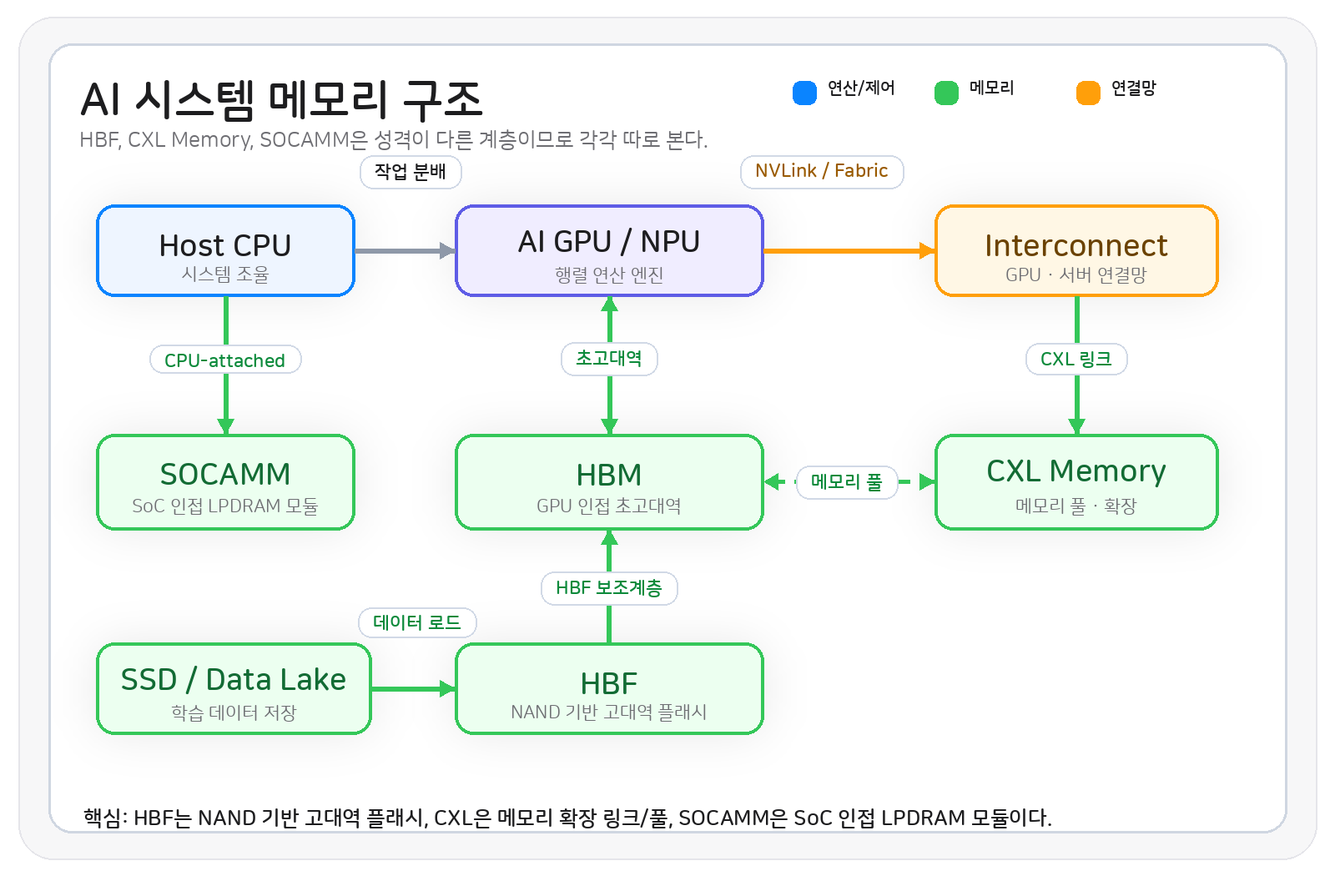
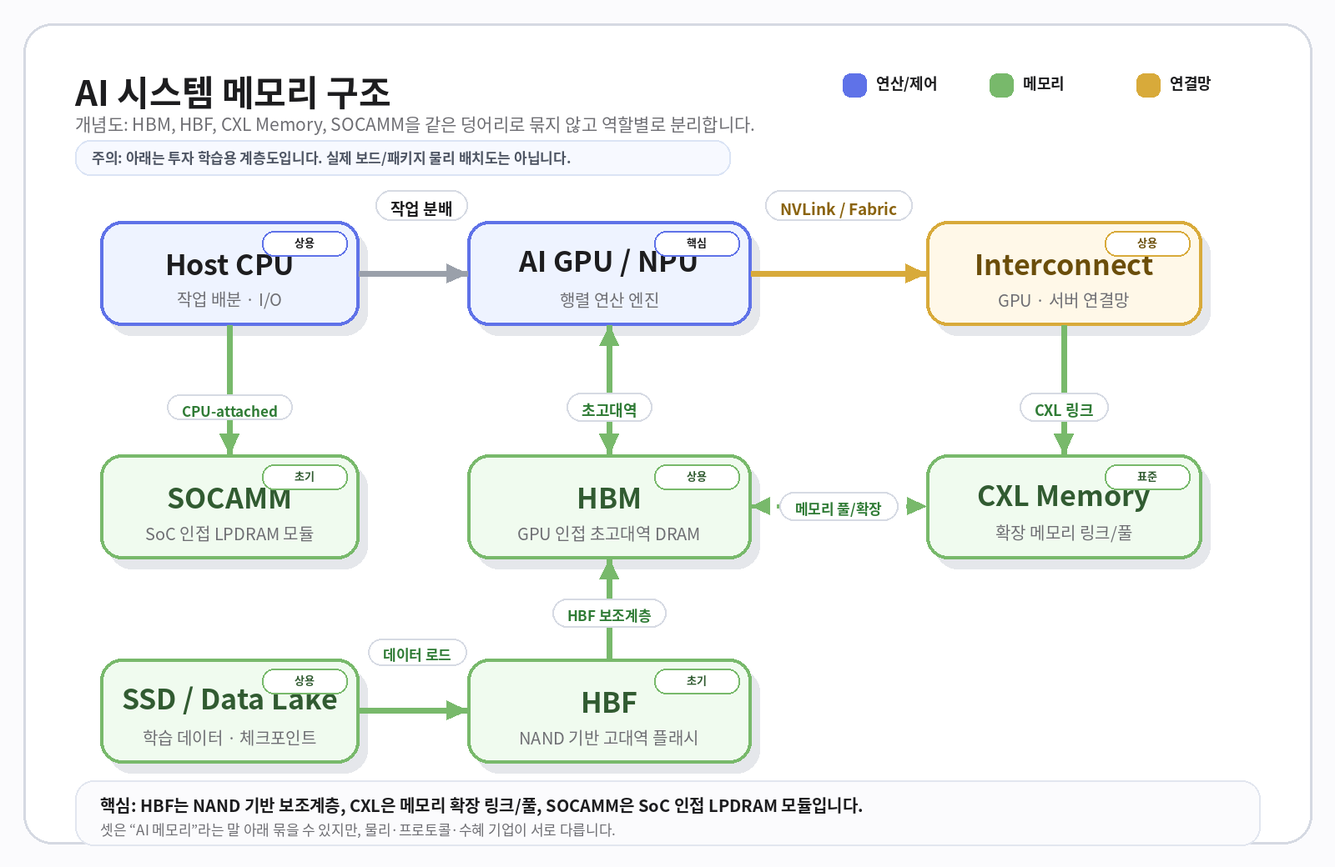
Add files via upload

diff --git a/index.html b/index.html
@@ -147,6 +147,36 @@
     .video-list { display: grid; gap: 8px; }
     .video-list a { display: block; text-decoration: none; border: 1px solid rgba(0,122,255,0.16); border-radius: 14px; background: rgba(0,122,255,0.06); color: #0057b8; padding: 9px 10px; font-size: 13px; font-weight: 800; }
 
+
+    .audit-grid { display: grid; grid-template-columns: repeat(4,minmax(0,1fr)); gap: 14px; }
+    .audit-card { border: 1px solid rgba(29,29,31,0.09); border-radius: 22px; background: linear-gradient(180deg,#fff,#f9fbff); box-shadow: var(--shadow-soft); padding: 18px; }
+    .audit-card h3 { margin: 10px 0 8px; font-size: 19px; letter-spacing: -0.04em; }
+    .audit-card p { margin: 0; color: var(--muted-strong); font-size: 13px; }
+    .severity { display: inline-flex; align-items: center; gap: 7px; border-radius: 999px; padding: 6px 9px; font-size: 11px; font-weight: 950; letter-spacing: .04em; text-transform: uppercase; }
+    .severity.red { color: #b42318; background: #fff1f0; border: 1px solid #ffd4cf; }
+    .severity.blue { color: #0057b8; background: rgba(0,122,255,0.08); border: 1px solid rgba(0,122,255,0.18); }
+    .severity.green { color: #087c38; background: rgba(52,199,89,0.10); border: 1px solid rgba(52,199,89,0.18); }
+    .severity.amber { color: #8a5a00; background: rgba(255,159,10,0.11); border: 1px solid rgba(255,159,10,0.22); }
+    .evidence-grid { display: grid; grid-template-columns: repeat(3,minmax(0,1fr)); gap: 14px; margin-top: 16px; }
+    .evidence-card { border: 1px solid rgba(29,29,31,0.09); border-radius: 22px; background: rgba(255,255,255,0.82); padding: 18px; }
+    .evidence-card strong { display: block; margin-bottom: 8px; font-size: 16px; letter-spacing: -0.035em; }
+    .evidence-card span { display: block; color: var(--muted); font-size: 13px; }
+    .glossary-grid { display: grid; grid-template-columns: repeat(4,minmax(0,1fr)); gap: 12px; margin-top: 16px; }
+    .glossary-card { border: 1px solid rgba(29,29,31,0.09); border-radius: 18px; background: #fff; padding: 14px; }
+    .glossary-card b { display:block; margin-bottom: 5px; font-size: 15px; }
+    .glossary-card small { color: var(--muted); line-height: 1.55; }
+    .stock-risk { margin: 0 0 14px; border: 1px solid rgba(255,59,48,0.14); background: rgba(255,59,48,0.045); border-radius: 16px; padding: 10px 12px; color: #7a271a; font-size: 12px; }
+    .stock-risk strong { display:block; margin-bottom: 2px; color: #b42318; }
+    .playbook-grid { display: grid; grid-template-columns: repeat(3,minmax(0,1fr)); gap: 14px; }
+    .playbook-card { border: 1px solid rgba(29,29,31,0.09); border-radius: 24px; background: rgba(255,255,255,0.86); box-shadow: var(--shadow-soft); padding: 20px; }
+    .playbook-card h3 { margin: 0 0 10px; font-size: 21px; letter-spacing: -0.045em; }
+    .playbook-card ul { margin: 0; padding-left: 18px; color: var(--muted-strong); font-size: 14px; }
+    .playbook-card li + li { margin-top: 7px; }
+    .truth-table { display: grid; gap: 8px; margin-top: 14px; }
+    .truth-row { display: grid; grid-template-columns: 110px minmax(0,1fr); gap: 10px; border: 1px solid rgba(29,29,31,0.08); background:#fff; border-radius: 14px; padding: 10px 12px; }
+    .truth-row b { font-size: 13px; }
+    .truth-row span { color: var(--muted); font-size: 13px; }
+
     .music-player { position: fixed; right: 24px; bottom: 24px; z-index: 80; display: inline-flex; align-items: center; gap: 10px; border: 1px solid rgba(29,29,31,0.12); border-radius: 999px; background: rgba(255,255,255,0.82); box-shadow: 0 18px 46px rgba(0,0,0,0.12); backdrop-filter: blur(22px) saturate(170%); -webkit-backdrop-filter: blur(22px) saturate(170%); padding: 10px 14px 10px 10px; color: var(--text); cursor: pointer; transition: transform .18s ease, box-shadow .18s ease, background .18s ease; }
     .music-player:hover { transform: translateY(-2px); box-shadow: 0 22px 54px rgba(0,0,0,0.15); background: rgba(255,255,255,0.94); }
     .music-icon { width: 34px; height: 34px; border-radius: 999px; display: inline-flex; align-items: center; justify-content: center; background: linear-gradient(180deg,#0a84ff,#0071e3); color: #fff; font-size: 13px; font-weight: 900; flex: 0 0 auto; }
@@ -203,9 +233,9 @@
     .resource-card span { color: var(--muted); font-size: 13px; }
     footer { padding: 44px 0 60px; color: var(--muted); border-top: 1px solid rgba(29,29,31,0.09); margin-top: 40px; }
 
-    @media (max-width: 1120px) { .stock-grid { grid-template-columns: repeat(2,minmax(0,1fr)); } .diagram-layout { grid-template-columns: 1fr; } .diagram-visual { border-right: 0; border-bottom: 1px solid var(--line); } }
+    @media (max-width: 1120px) { .audit-grid, .glossary-grid { grid-template-columns: repeat(2,minmax(0,1fr)); } .playbook-grid, .evidence-grid { grid-template-columns: 1fr; } .stock-grid { grid-template-columns: repeat(2,minmax(0,1fr)); } .diagram-layout { grid-template-columns: 1fr; } .diagram-visual { border-right: 0; border-bottom: 1px solid var(--line); } }
     @media (max-width: 980px) { .hero-grid, .note-layout { grid-template-columns: 1fr; } .quote-grid, .resource-grid { grid-template-columns: repeat(2,minmax(0,1fr)); } .hero-card { min-height: auto; } }
-    @media (max-width: 620px) { .price-card-grid { grid-template-columns: 1fr; } .wrap { width: min(100% - 24px,1180px); } .topbar-inner { align-items: flex-start; flex-direction: column; } .nav { justify-content: flex-start; } .hero { padding-top: 42px; } .hero-card, .panel, .flow-card, .component-detail { padding: 20px; } .quote-grid, .resource-grid, .stock-grid { grid-template-columns: 1fr; } .section-head { align-items: start; flex-direction: column; } .diagram-visual { padding: 10px; } .hotspot { border-radius: 10px; } .music-player { right: 12px; bottom: 12px; max-width: calc(100% - 24px); } }
+    @media (max-width: 620px) { .audit-grid, .glossary-grid { grid-template-columns: 1fr; } .truth-row { grid-template-columns: 1fr; } .price-card-grid { grid-template-columns: 1fr; } .wrap { width: min(100% - 24px,1180px); } .topbar-inner { align-items: flex-start; flex-direction: column; } .nav { justify-content: flex-start; } .hero { padding-top: 42px; } .hero-card, .panel, .flow-card, .component-detail { padding: 20px; } .quote-grid, .resource-grid, .stock-grid { grid-template-columns: 1fr; } .section-head { align-items: start; flex-direction: column; } .diagram-visual { padding: 10px; } .hotspot { border-radius: 10px; } .music-player { right: 12px; bottom: 12px; max-width: calc(100% - 24px); } }
   </style>
 </head>
 <body>
@@ -219,7 +249,7 @@
     <div class="wrap topbar-inner">
       <a class="brand" href="#top" aria-label="TY의 주식공부 홈"><span class="brand-mark"></span><span>TY의 주식공부</span></a>
       <nav class="nav" aria-label="주요 메뉴">
-        <a href="#market">시장</a><a href="#stocks">종목</a><a href="#prices">현물가</a><a href="#semiconductor">반도체</a><a href="#journal">기록</a><a href="#resources">자료</a>
+        <a href="#audit">검증</a><a href="#market">시장</a><a href="#stocks">종목</a><a href="#prices">가격</a><a href="#semiconductor">구조</a><a href="#playbook">체크</a><a href="#journal">기록</a><a href="#resources">자료</a>
       </nav>
     </div>
   </header>
@@ -231,8 +261,8 @@
           <div>
             <div class="eyebrow">반도체 중심 투자 판단 시스템</div>
             <h1>시장, 산업, 종목, 기록을 하나로 묶는다.</h1>
-            <p class="hero-copy">매크로를 먼저 보고, 반도체 구조를 클릭해서 이해하고, 핵심 반도체 종목의 가격·시총·근거를 기록하는 개인 대시보드입니다.</p>
-            <div class="hero-actions"><a class="primary-btn" href="#market">오늘 시장 보기</a><a class="ghost-btn" href="#semiconductor">구조 공부하기</a><a class="ghost-btn" href="#journal">판단 기록하기</a></div>
+            <p class="hero-copy">보기 좋은 링크 모음이 아니라, 반도체 투자 판단에서 틀리기 쉬운 지점—용어 혼동, 데이터 신뢰도, 병목 착각, 기록 부재—를 먼저 까고 들어가는 개인 대시보드입니다.</p>
+            <div class="hero-actions"><a class="primary-btn" href="#audit">약점 먼저 보기</a><a class="ghost-btn" href="#market">오늘 시장 보기</a><a class="ghost-btn" href="#semiconductor">구조 공부하기</a></div>
           </div>
         </div>
         <aside class="flow-card mini-panel" aria-label="일일 판단 흐름">
@@ -248,9 +278,34 @@
       </div>
     </section>
 
+    <section id="audit">
+      <div class="wrap">
+        <div class="section-head"><div><h2>먼저 까고 보는 검증 보드</h2><p>이 페이지의 약점은 숨기면 더 위험합니다. 기술·데이터·디자인·트레이딩 관점의 비판을 기능으로 바꿨습니다.</p></div></div>
+        <div class="panel">
+          <div class="audit-grid">
+            <article class="audit-card"><span class="severity red">반도체 엔지니어</span><h3>용어가 섞이면 바로 가짜 지식이 됩니다.</h3><p>HBM은 DRAM 패키징, HBF는 NAND 기반 보조계층, CXL은 인터페이스/풀링, SOCAMM은 LPDRAM 모듈입니다. 그래서 다이어그램과 설명을 역할별로 쪼갰습니다.</p></article>
+            <article class="audit-card"><span class="severity blue">AI 엔지니어</span><h3>GPU만 보면 병목을 못 봅니다.</h3><p>학습은 HBM·Interconnect, 추론은 KV cache·용량·전력·저장 계층이 병목이 됩니다. 구조 설명에 병목과 무효화 조건을 넣었습니다.</p></article>
+            <article class="audit-card"><span class="severity amber">애널리스트</span><h3>데이터 신뢰도를 안 쓰면 차트는 장식입니다.</h3><p>메모리 가격 차트는 유료 원자료가 아닌 수동/프록시 데이터임을 노출했고, JSON 교체 구조로 바꿨습니다.</p></article>
+            <article class="audit-card"><span class="severity green">트레이더</span><h3>예쁜 정보는 매매에 쓸모 없습니다.</h3><p>가격·시총·현물가·소비자가·공시를 한 흐름에 묶고, 아래 체크리스트로 오늘 행동을 강제합니다.</p></article>
+          </div>
+          <div class="evidence-grid">
+            <div class="evidence-card"><strong>데이터 원칙</strong><span>실시간 시세는 외부 API 실패 가능성이 있으므로 캐시와 원문 링크를 함께 둡니다. 메모리 가격은 원자료 확보 전까지 투자 참고용입니다.</span></div>
+            <div class="evidence-card"><strong>기술 원칙</strong><span>“AI 메모리”라는 마케팅 단어 대신 칩, 모듈, 인터페이스, 저장계층을 분리합니다.</span></div>
+            <div class="evidence-card"><strong>행동 원칙</strong><span>오늘 판단은 반드시 관찰·근거·위험·다음 행동으로 기록합니다. 감상문은 기록이 아닙니다.</span></div>
+          </div>
+          <div class="glossary-grid">
+            <div class="glossary-card"><b>HBM</b><small>GPU 옆에 붙는 초고대역 DRAM. 핵심은 대역폭과 패키징입니다.</small></div>
+            <div class="glossary-card"><b>HBF</b><small>NAND 기반 고대역 플래시 보조계층. HBM 대체가 아니라 용량/저장 계층 보완입니다.</small></div>
+            <div class="glossary-card"><b>CXL Memory</b><small>메모리 종류가 아니라 CPU·장치·메모리 사이의 캐시 일관성 확장 인터페이스/풀입니다.</small></div>
+            <div class="glossary-card"><b>SOCAMM</b><small>SoC 가까이에 붙는 LPDRAM 모듈. HBF도 CXL도 아닙니다.</small></div>
+          </div>
+        </div>
+      </div>
+    </section>
+
     <section id="market">
       <div class="wrap">
-        <div class="section-head"><div><h2>오늘의 시장 온도</h2><p>삼성전자·하이닉스는 제외하고, 환율·금·유가·지수·비트코인·마이크론·한국 기준금리만 빠르게 확인합니다.</p></div><button class="ghost-btn" id="refresh-quotes" type="button">새로고침</button></div>
+        <div class="section-head"><div><h2>오늘의 시장 온도</h2><p>투자 판단의 배경만 봅니다. 종목은 아래에서 따로 비교하고, 여기서는 환율·금·유가·지수·비트코인·한국 기준금리로 위험선호를 확인합니다.</p></div><button class="ghost-btn" id="refresh-quotes" type="button">새로고침</button></div>
         <div class="panel"><div class="quote-grid" id="quote-grid"></div><div class="data-status" id="market-status">캐시를 먼저 표시하고 최신 가격을 갱신합니다.</div></div>
       </div>
     </section>
@@ -266,7 +321,7 @@
 
     <section id="prices">
       <div class="wrap">
-        <div class="section-head"><div><h2>메모리 가격 추이</h2><p>주식 판단은 칩 현물가와 소비자 체감가를 분리해서 봅니다. 현물가는 세대별 병목을, 다나와 가격은 PC·SSD 체감 수요를 보여줍니다.</p></div></div>
+        <div class="section-head"><div><h2>메모리 가격 추이</h2><p>칩 현물가와 소비자 체감가를 분리합니다. 단, 현재 데이터는 공개 기사 앵커와 수동 입력 기반입니다. 진짜 원자료를 확보하면 JSON만 교체해야 합니다.</p></div></div>
         <div class="panel memory-price-panel">
           <div class="price-basis">
             <strong>기준</strong>
@@ -320,6 +375,24 @@
       </div>
     </section>
 
+    <section id="playbook">
+      <div class="wrap">
+        <div class="section-head"><div><h2>오늘의 반도체 체크리스트</h2><p>이 섹션이 없으면 홈페이지는 그냥 예쁜 링크 모음입니다. 매일 볼 질문을 고정했습니다.</p></div></div>
+        <div class="playbook-grid">
+          <article class="playbook-card"><h3>엔지니어링 병목</h3><ul><li>GPU가 부족한가, HBM이 부족한가, 네트워크가 부족한가?</li><li>학습 병목과 추론 병목을 같은 말로 뭉개지 않았는가?</li><li>CXL/HBF/SOCAMM을 같은 수혜주로 착각하지 않았는가?</li></ul></article>
+          <article class="playbook-card"><h3>가격 사이클</h3><ul><li>DDR4와 DDR5 가격 방향이 갈라지는가?</li><li>NAND/SSD 소비자가가 현물가를 따라 올라오는가?</li><li>가격 상승이 실적에 반영될 시차를 기록했는가?</li></ul></article>
+          <article class="playbook-card"><h3>무효화 조건</h3><ul><li>시총은 오르는데 현물가·수요 근거가 약해지는가?</li><li>공시/실적에서 재고, ASP, capex 방향이 기존 가정과 충돌하는가?</li><li>좋은 기업과 좋은 매수 시점을 구분했는가?</li></ul></article>
+        </div>
+        <div class="panel" style="margin-top:16px">
+          <div class="truth-table">
+            <div class="truth-row"><b>학생 관점</b><span>정의 → 구조 → 기업 → 가격 순서로 봅니다. 약어부터 외우면 실패합니다.</span></div>
+            <div class="truth-row"><b>비전문가 관점</b><span>복잡한 말은 모두 “데이터를 어디에 얼마나 빨리 저장·이동시키는가”로 번역합니다.</span></div>
+            <div class="truth-row"><b>애널리스트 관점</b><span>차트는 결론이 아니라 질문 생성기입니다. 원자료·가정·무효화 조건을 같이 봅니다.</span></div>
+          </div>
+        </div>
+      </div>
+    </section>
+
     <section id="journal">
       <div class="wrap">
         <div class="section-head"><div><h2>판단 기록</h2><p>맞혔는지가 아니라 어떤 근거로 판단했는지를 남깁니다.</p></div><button class="primary-btn" id="save-note" type="button">저장</button></div>
@@ -330,7 +403,7 @@
     <section id="resources">
       <div class="wrap">
         <div class="section-head"><div><h2>확인 자료</h2><p>매일 확인할 출처만 남겼습니다.</p></div></div>
-        <div class="resource-grid"><a class="resource-card" href="https://finance.naver.com/news/mainnews.naver" target="_blank" rel="noopener noreferrer"><strong>시장 뉴스</strong><span>네이버 금융 주요 뉴스</span></a><a class="resource-card" href="https://dart.fss.or.kr/dsab002/search.ax" target="_blank" rel="noopener noreferrer"><strong>DART 공시</strong><span>국내 기업 공시 원문</span></a><a class="resource-card" href="https://finance.yahoo.com/calendar/earnings" target="_blank" rel="noopener noreferrer"><strong>실적 캘린더</strong><span>미국 기업 실적 일정</span></a><a class="resource-card" href="https://www.tradingview.com/markets/" target="_blank" rel="noopener noreferrer"><strong>TradingView</strong><span>차트와 시장 맵</span></a></div>
+        <div class="resource-grid"><a class="resource-card" href="https://finance.naver.com/news/mainnews.naver" target="_blank" rel="noopener noreferrer"><strong>시장 뉴스</strong><span>네이버 금융 주요 뉴스</span></a><a class="resource-card" href="https://dart.fss.or.kr/dsab002/search.ax" target="_blank" rel="noopener noreferrer"><strong>DART 공시</strong><span>국내 기업 공시 원문</span></a><a class="resource-card" href="https://finance.yahoo.com/calendar/earnings" target="_blank" rel="noopener noreferrer"><strong>실적 캘린더</strong><span>미국 기업 실적 일정</span></a><a class="resource-card" href="https://www.tradingview.com/markets/" target="_blank" rel="noopener noreferrer"><strong>TradingView</strong><span>차트와 시장 맵</span></a><a class="resource-card" href="https://www.dramexchange.com/" target="_blank" rel="noopener noreferrer"><strong>DRAMeXchange</strong><span>DRAM/NAND 원자료 확인 후보</span></a><a class="resource-card" href="https://www.trendforce.com/price" target="_blank" rel="noopener noreferrer"><strong>TrendForce Price</strong><span>메모리 가격 원자료 확인 후보</span></a><a class="resource-card" href="https://www.danawa.com/" target="_blank" rel="noopener noreferrer"><strong>Danawa</strong><span>소비자가 확인 후보</span></a><a class="resource-card" href="https://computeexpresslink.org/about-cxl/" target="_blank" rel="noopener noreferrer"><strong>CXL Consortium</strong><span>CXL 공식 개요</span></a></div>
       </div>
     </section>
   </main>
@@ -345,7 +418,6 @@
       { id: 'nasdaq', group: 'Index', name: '나스닥', ticker: '^IXIC', format: 'index', url: 'https://finance.yahoo.com/quote/%5EIXIC' },
       { id: 'kospi', group: 'Index', name: '코스피', ticker: '^KS11', format: 'index', url: 'https://finance.yahoo.com/quote/%5EKS11' },
       { id: 'btc', group: 'Crypto', name: '비트코인', ticker: 'BTC-USD', format: 'btc', url: 'https://www.coingecko.com/en/coins/bitcoin' },
-      { id: 'micron', group: 'Stock', name: '마이크론', ticker: 'MU', format: 'usd', url: 'https://finance.yahoo.com/quote/MU' },
       { id: 'kr-rate', group: 'Rate', name: '한국 기준금리', localRate: true, format: 'rate', url: 'https://www.bok.or.kr/portal/main/contents.do?menuNo=200643' }
     ];
 
@@ -359,6 +431,17 @@
       { id: 'sandisk', name: '샌디스크', ticker: 'SNDK', displayTicker: 'SNDK · NASDAQ', tag: 'HBF+NAND', thesis: 'NAND 플래시, SSD, 그리고 HBF처럼 AI 메모리 계층으로 올라가는 저장장치 흐름을 따로 봅니다.', links: [['Yahoo','https://finance.yahoo.com/quote/SNDK'],['SEC','https://www.sec.gov/cgi-bin/browse-edgar?action=getcompany&CIK=SNDK&type=10-K&owner=include&count=10'],['Chart','https://www.tradingview.com/chart/?symbol=NASDAQ%3ASNDK']] },
       { id: 'kioxia', name: '키옥시아', ticker: '285A.T', displayTicker: '285A · TSE', tag: 'NAND/SSD', thesis: '일본 NAND·SSD 핵심 업체로, HBF와는 분리해서 순수 저장장치 사이클을 비교합니다.', links: [['Yahoo','https://finance.yahoo.com/quote/285A.T'],['IR','https://www.kioxia-holdings.com/en-jp/ir.html'],['Chart','https://www.tradingview.com/chart/?symbol=TSE%3A285A']] }
     ];
+
+    const stockRiskMap = {
+      samsung: { risk: '메모리 반등만으로 파운드리·모바일 리스크가 사라지지 않습니다.', watch: 'DRAM/NAND ASP, 재고, 파운드리 적자 축소' },
+      hynix: { risk: 'HBM 강세가 이미 주가에 과반 반영됐을 수 있습니다.', watch: 'HBM 점유율, 고객 집중도, capex' },
+      'micron-stock': { risk: '미국 메모리 대표주라 사이클 레버리지가 크지만 변동성도 큽니다.', watch: 'DRAM ASP, HBM 전환 속도, 재고' },
+      intel: { risk: 'CPU와 파운드리 재건은 시간이 오래 걸리고 실행 리스크가 큽니다.', watch: '서버 CPU 점유율, 공정 로드맵, 현금흐름' },
+      amd: { risk: '좋은 제품과 데이터센터 점유율 확대는 별개입니다.', watch: 'EPYC 점유율, MI 시리즈 수주, 마진' },
+      nvidia: { risk: '최고 기업이어도 네트워크·전력·HBM 병목이 성장률을 제한할 수 있습니다.', watch: 'GB/Rubin 공급, HBM 배정, 네트워킹 매출' },
+      sandisk: { risk: 'HBF는 아직 초기 축입니다. NAND 사이클과 신기술 기대를 분리해야 합니다.', watch: 'NAND ASP, SSD 가격, HBF 표준화/고객' },
+      kioxia: { risk: 'NAND 가격 반등이 재무구조 개선으로 이어지는지 확인해야 합니다.', watch: 'NAND ASP, 엔화, capex, SSD 수요' }
+    };
 
     const fallbackShares = {
       '005930.KS': 5969782550,
@@ -377,11 +460,11 @@
         frameId: 'pc-diagram',
         detailId: 'pc-detail',
         hotspots: [
-          { id: 'cpu', label: 'CPU', x: 6.88, y: 26.60, w: 20.63, h: 11.70 },
-          { id: 'dram', label: 'DRAM', x: 37.50, y: 26.60, w: 20.63, h: 11.70 },
-          { id: 'gpu', label: 'GPU', x: 68.13, y: 26.60, w: 20.63, h: 11.70 },
-          { id: 'nand', label: 'NAND / SSD', x: 37.50, y: 64.90, w: 20.63, h: 11.70 },
-          { id: 'vram', label: 'VRAM', x: 68.13, y: 64.90, w: 20.63, h: 11.70 }
+          { id: 'cpu', label: 'CPU', x: 8.44, y: 27.66, w: 21.88, h: 13.30 },
+          { id: 'dram', label: 'DRAM', x: 38.13, y: 27.66, w: 21.88, h: 13.30 },
+          { id: 'gpu', label: 'GPU', x: 67.81, y: 27.66, w: 21.88, h: 13.30 },
+          { id: 'nand', label: 'NAND / SSD', x: 38.13, y: 67.55, w: 21.88, h: 13.30 },
+          { id: 'vram', label: 'VRAM', x: 67.81, y: 67.55, w: 21.88, h: 13.30 }
         ]
       },
       ai: {
@@ -399,6 +482,11 @@
           { id: 'hbf', label: 'HBF', x: 34.06, y: 73.33, w: 23.13, h: 10.48 }
         ]
       }
+    };
+
+    const componentStatus = {
+      cpu: '상용 · PC/서버 공통 제어 블록', dram: '상용 · 휘발성 작업공간', gpu: '상용 · 병렬 연산', nand: '상용 · 비휘발 저장', vram: '상용 · GPU 로컬 메모리',
+      'host-cpu': '상용 · 오케스트레이션', 'ai-gpu': '상용 핵심 · 공급 병목 가능', hbm: '상용 핵심 · 패키징/대역폭 병목', hbf: '초기/표준화 추적 · 과대해석 금지', cxl: '표준 인터페이스 · 제품별 지연시간 확인', socamm: '초기 모듈 · 열/표준화 리스크', 'ssd-lake': '상용 저장 계층', interconnect: '상용 핵심 · 클러스터 병목'
     };
 
     const components = {
@@ -460,22 +548,22 @@
       },
       'hbf': {
         title: 'HBF', kind: '메모리',
-        desc: 'High Bandwidth Flash입니다. NAND 플래시를 HBM과 비슷한 패키지·인터페이스 계층으로 끌어올려, HBM보다 큰 용량을 AI 추론 쪽에 공급하려는 흐름입니다.',
-        why: 'HBF는 CXL이나 SOCAMM과 같은 범주가 아닙니다. SanDisk처럼 NAND 기반 역량을 가진 업체가 AI 메모리 체인에 다시 들어오는 통로입니다.',
+        desc: 'High Bandwidth Flash입니다. NAND 기반 저장 계층을 더 높은 대역폭의 보조계층으로 끌어올리려는 초기 흐름입니다. HBM의 직접 대체재로 단정하면 안 됩니다.',
+        why: 'HBF는 CXL이나 SOCAMM과 같은 범주가 아닙니다. 투자 관점에서는 SanDisk 같은 NAND 업체가 AI 추론 저장 병목에서 새 수혜 축을 만들 수 있는지 추적합니다.',
         companies: ['SanDisk', 'SK hynix', 'Kioxia 후보군', 'NAND 패키징 업체'], related: ['SNDK', '000660', '285A.T'],
         videos: [['High Bandwidth Flash 검색','https://www.youtube.com/results?search_query=High+Bandwidth+Flash+HBF+explained'],['SanDisk HBF 검색','https://www.youtube.com/results?search_query=SanDisk+High+Bandwidth+Flash+HBF'],['NAND for AI inference 검색','https://www.youtube.com/results?search_query=NAND+flash+AI+inference+memory']]
       },
       'cxl': {
         title: 'CXL Memory', kind: '메모리/인터페이스',
-        desc: 'Compute Express Link 기반 확장 메모리입니다. CPU·가속기·메모리 풀을 PCIe 계열 링크로 묶어 서버 전체의 메모리 용량을 늘리는 방향입니다.',
-        why: 'CXL은 특정 NAND 제품이 아니라 서버 메모리 확장 표준입니다. DRAM, 컨트롤러, 스위치, 리타이머 회사들을 따로 봐야 합니다.',
+        desc: 'Compute Express Link 기반 메모리 확장/일관성 인터페이스입니다. 이것은 특정 DRAM/NAND 제품명이 아니라 CPU·가속기·메모리 장치를 묶는 표준 링크와 프로토콜입니다.',
+        why: 'CXL은 특정 NAND 제품이 아니라 서버 메모리 확장 표준입니다. 실제 투자 판단은 DRAM 용량, 컨트롤러, 스위치, 리타이머, 지연시간을 따로 봐야 합니다.',
         companies: ['Samsung Electronics', 'SK hynix', 'Micron', 'Astera Labs', 'Marvell', 'Rambus'], related: ['005930', '000660', 'MU'],
         videos: [['CXL memory explained 검색','https://www.youtube.com/results?search_query=CXL+memory+explained'],['Compute Express Link explained 검색','https://www.youtube.com/results?search_query=Compute+Express+Link+explained'],['memory pooling explained 검색','https://www.youtube.com/results?search_query=memory+pooling+CXL+explained']]
       },
       'socamm': {
         title: 'SOCAMM', kind: '메모리 모듈',
-        desc: 'System-on-Chip Attached Memory Module입니다. 사용자가 말한 SOCAAM 흐름은 여기서 SOCAMM으로 표기합니다. LPDDR 계열을 서버 SoC 가까이에 붙여 용량·전력·공간 효율을 높이는 별도 모듈형 메모리입니다.',
-        why: 'SOCAMM은 HBF처럼 NAND가 아니고, CXL처럼 범용 확장 링크도 아닙니다. CPU/SoC 가까이에 붙는 LPDRAM 모듈 체인으로 따로 봐야 합니다.',
+        desc: 'System-on-Chip Attached Memory Module입니다. LPDDR 계열을 서버 SoC 가까이에 붙여 용량·전력·공간 효율을 높이는 모듈형 메모리입니다. HBF도 CXL도 아닙니다.',
+        why: 'SOCAMM은 HBF처럼 NAND가 아니고, CXL처럼 범용 확장 링크도 아닙니다. CPU/SoC 인접 LPDRAM 모듈 체인으로 따로 봐야 하며 열·표준화·플랫폼 채택이 핵심 리스크입니다.',
         companies: ['Micron', 'Samsung Electronics', 'SK hynix', 'NVIDIA 플랫폼'], related: ['MU', '005930', '000660', 'NVDA'],
         videos: [['SOCAMM memory 검색','https://www.youtube.com/results?search_query=SOCAMM+memory+explained'],['LPDDR server memory 검색','https://www.youtube.com/results?search_query=LPDDR+server+memory+explained'],['NVIDIA SOCAMM 검색','https://www.youtube.com/results?search_query=NVIDIA+SOCAMM+memory']]
       },
@@ -1072,7 +1160,7 @@
     }
 
     function renderStockCards() {
-      document.getElementById('stock-grid').innerHTML = coreStocks.map(stock => `<article class="stock-card" id="stock-${stock.id}"><div><div class="stock-top"><div><h3>${stock.name}</h3><div class="ticker">${stock.displayTicker}</div></div><span class="tag">${stock.tag}</span></div><p class="stock-thesis">${stock.thesis}</p><div class="stock-metrics"><div class="metric"><div class="metric-label">주가</div><div class="metric-value stock-price">—</div><div class="stock-change flat">대기 중</div></div><div class="metric"><div class="metric-label">시가총액</div><div class="metric-value stock-cap">시총 확인 중</div><div class="quote-source stock-source">—</div></div></div></div><div class="link-row">${stock.links.map(([label,url]) => `<a href="${url}" target="_blank" rel="noopener noreferrer">${label}</a>`).join('')}</div></article>`).join('');
+      document.getElementById('stock-grid').innerHTML = coreStocks.map(stock => `<article class="stock-card" id="stock-${stock.id}"><div><div class="stock-top"><div><h3>${stock.name}</h3><div class="ticker">${stock.displayTicker}</div></div><span class="tag">${stock.tag}</span></div><p class="stock-thesis">${stock.thesis}</p><div class="stock-risk"><strong>공격적 체크</strong>${stockRiskMap[stock.id]?.risk || '가정과 리스크를 따로 기록해야 합니다.'}<br><strong>봐야 할 것</strong>${stockRiskMap[stock.id]?.watch || '실적, 공시, 가격 추이'}</div><div class="stock-metrics"><div class="metric"><div class="metric-label">주가</div><div class="metric-value stock-price">—</div><div class="stock-change flat">대기 중</div></div><div class="metric"><div class="metric-label">시가총액</div><div class="metric-value stock-cap">시총 확인 중</div><div class="quote-source stock-source">—</div></div></div></div><div class="link-row">${stock.links.map(([label,url]) => `<a href="${url}" target="_blank" rel="noopener noreferrer">${label}</a>`).join('')}</div></article>`).join('');
     }
 
     function hydrateCachedQuotes() {
@@ -1286,7 +1374,7 @@
       activeComponents[group] = id;
       const target = document.getElementById(componentData[group].detailId);
       const item = components[id]; if (!target || !item) return;
-      target.innerHTML = `<div><div class="component-kicker">${item.kind}</div><h3>${item.title}</h3></div><p>${item.desc}</p><div class="detail-block"><strong>투자 판단에서 보는 이유</strong><p>${item.why}</p></div><div class="detail-block"><strong>대표 회사</strong><div class="chip-list">${item.companies.map(v => `<span class="chip">${v}</span>`).join('')}</div></div><div class="detail-block"><strong>관련 종목</strong><div class="chip-list">${item.related.map(v => `<span class="chip">${v}</span>`).join('')}</div></div><div class="detail-block"><strong>YouTube 학습 링크</strong><div class="video-list">${item.videos.map(([label,url]) => `<a href="${url}" target="_blank" rel="noopener noreferrer">${label}</a>`).join('')}</div></div>`;
+      target.innerHTML = `<div><div class="component-kicker">${item.kind}</div><h3>${item.title}</h3></div><p>${item.desc}</p><div class="detail-block"><strong>기술 상태</strong><p>${componentStatus[id] || '상태 확인 필요'}</p></div><div class="detail-block"><strong>투자 판단에서 보는 이유</strong><p>${item.why}</p></div><div class="detail-block"><strong>대표 회사</strong><div class="chip-list">${item.companies.map(v => `<span class="chip">${v}</span>`).join('')}</div></div><div class="detail-block"><strong>관련 종목</strong><div class="chip-list">${item.related.map(v => `<span class="chip">${v}</span>`).join('')}</div></div><div class="detail-block"><strong>YouTube 학습 링크</strong><div class="video-list">${item.videos.map(([label,url]) => `<a href="${url}" target="_blank" rel="noopener noreferrer">${label}</a>`).join('')}</div></div>`;
       document.querySelectorAll(`#${componentData[group].frameId} .hotspot`).forEach(btn => btn.classList.toggle('active', btn.dataset.componentId === id));
     }
 
@@ -1305,7 +1393,7 @@
     }
 
     function today() { const d = new Date(); return `${d.getFullYear()}.${String(d.getMonth() + 1).padStart(2,'0')}.${String(d.getDate()).padStart(2,'0')}`; }
-    function noteKey(id) { return `ty-note-v5:${id}`; }
+    function noteKey(id) { return `ty-note-v8:${id}`; }
     function readNote(id) { try { const data = JSON.parse(localStorage.getItem(noteKey(id)) || '{}'); return { text: data.text || '', updatedAt: data.updatedAt || '' }; } catch { return { text: '', updatedAt: '' }; } }
     function noteTemplate(label) { return `[${today()}]\n\n관찰:\n\n근거:\n\n위험:\n\n다음 행동:\n`; }
     function renderTabs() { document.getElementById('note-tabs').innerHTML = noteTargets.map(([id,label]) => `<button class="note-tab${id === activeNote ? ' active' : ''}" type="button" onclick="selectNote('${id}')">${label}</button>`).join(''); }

diff --git a/single.html b/single.html
@@ -1,2 +1,13 @@
 <!doctype html>
-<html lang="ko"><head><meta charset="utf-8"><meta http-equiv="refresh" content="0; url=./"><title>TY의 주식공부</title></head><body><a href="./">TY의 주식공부로 이동</a></body></html>
+<html lang="ko">
+<head>
+  <meta charset="utf-8">
+  <meta name="viewport" content="width=device-width, initial-scale=1">
+  <title>TY의 주식공부</title>
+  <meta http-equiv="refresh" content="0; url=./">
+  <link rel="canonical" href="./">
+</head>
+<body>
+  <p><a href="./">TY의 주식공부로 이동</a></p>
+</body>
+</html>

diff --git a/README.md b/README.md
@@ -2,58 +2,38 @@
 
 반도체 중심 투자 판단을 위한 개인 대시보드입니다.
 
-## 핵심 흐름
+## 핵심 목적
 
-1. 환율, 금, 유가, 지수, 비트코인으로 시장 온도를 확인합니다.
-2. 삼성전자, SK하이닉스, 마이크론, 인텔, AMD, 엔비디아, 샌디스크, 키옥시아의 주가와 시가총액을 비교합니다.
-3. DRAM과 NAND 현물가 추이를 참고용 그래프로 봅니다.
-4. PC와 AI 시스템의 메모리 구조를 클릭형 블록다이어그램으로 공부합니다.
-5. HBF, CXL Memory, SOCAMM을 하나로 묶지 않고 별도 부품·투자 테마로 분리해서 봅니다.
-6. 판단 근거와 다음 행동을 기록합니다.
+시장, 반도체 구조, 핵심 종목, 메모리 가격, 판단 기록을 한 흐름으로 묶습니다.
+보기 좋은 링크 모음이 아니라, 투자 판단에서 틀리기 쉬운 지점을 먼저 드러내는 운영체제를 목표로 합니다.
 
-## 이번 버전의 수정점
+## 이번 버전의 변화
 
-- AI 블록다이어그램에서 `HBF / CXL Memory`를 분리했습니다.
-- `HBF`, `CXL Memory`, `SOCAMM`을 각각 별도 클릭 블록과 설명으로 만들었습니다.
-- 샌디스크는 `HBF+NAND` 관점으로, 키옥시아는 `NAND/SSD` 관점으로 분리했습니다.
-- 핵심 종목의 시가총액이 `—`로 남는 문제를 줄이기 위해 Yahoo quoteSummary fallback을 추가했습니다.
-- DRAM·NAND 현물가 추이 섹션을 추가했습니다.
-- 현물가 그래프는 공개 기사 가격점과 보간값을 섞은 참고용 프록시입니다. 정식 원자료가 있으면 `data/memory-spot-prices.json`만 교체하면 됩니다.
+- 관점별 비판을 반영한 **검증 보드** 추가
+- HBM / HBF / CXL Memory / SOCAMM을 역할별로 분리
+- AI 시스템 블록다이어그램 재정렬 및 클릭 영역 재조정
+- 메모리 가격 차트의 데이터 신뢰도 문구 강화
+- 핵심 종목 카드에 공격적 체크와 봐야 할 지표 추가
+- 트레이더용 체크리스트 추가
+- CXL, DRAMeXchange, TrendForce, Danawa 등 확인 자료 링크 추가
 
-## 데이터 로딩 구조
+## 데이터 원칙
 
-- Yahoo Finance quote API를 먼저 묶어서 요청합니다.
-- 시가총액이 빠진 종목은 Yahoo Finance quoteSummary에서 `marketCap` 또는 `sharesOutstanding × price`로 보강합니다.
-- 브라우저 CORS 실패에 대비해 direct fetch, AllOrigins, CodeTabs, corsproxy를 병렬로 시도합니다.
-- 첫 화면은 localStorage 캐시를 먼저 표시하고, 이후 최신 가격으로 갱신합니다.
-- 비트코인은 Yahoo Finance 실패 시 CoinGecko로 한 번 더 시도합니다.
-- 한국 기준금리는 `rates.json`에서 수동 관리합니다.
+실시간 시세는 Yahoo Finance, CoinGecko, rates.json을 사용합니다.
+외부 API는 브라우저·CORS·프록시 상태에 따라 실패할 수 있으므로 카드에는 원문 링크와 캐시 표시를 함께 둡니다.
 
-## 파일 구조
+메모리 가격 차트는 `data/memory-watch-prices.json`에서 읽습니다.
+현재 값은 공개 기사 앵커와 수동 입력 기반의 참고용 데이터입니다.
+정확한 DRAMeXchange, TrendForce, ChinaFlashMarket, Danawa 월별 원자료를 확보하면 이 JSON만 교체하세요.
 
-```text
-index.html
-README.md
-README.txt
-rates.json
-single.html
-data/memory-spot-prices.json
-assets/diagrams/pc-memory-structure.png
-assets/diagrams/ai-memory-structure.png
+## 배포
+
+GitHub Pages 저장소 루트에 그대로 덮어씁니다.
+
+```bash
+rsync -av --delete --exclude='.git' --exclude='CNAME' ./ty_homepage_v8_critique_refined/ ./ty1211-kim.github.io/
+cd ./ty1211-kim.github.io
+git add -A
+git commit -m "Refine dashboard with critical review"
+git push origin main
 ```
-
-
-## v6 변경 사항
-
-- AI 블록다이어그램에서 HBF, CXL Memory, SOCAMM을 서로 다른 블록으로 명확히 분리했습니다.
-- 메모리 가격 추이를 두 개의 차트로 나눴습니다.
-  - 차트 1: DDR4 16Gb, DDR5 16Gb, NAND MLC 방향성
-  - 차트 2: 다나와 DDR4 8GB, DDR5 16GB, NVMe SSD 1TB 대표가
-- 가격 데이터는 `data/memory-watch-prices.json`에서 관리합니다. 실데이터를 확보하면 이 파일만 교체하면 됩니다.
-- 시가총액 캐시 키를 v6로 바꿔 이전 버전의 빈 캐시가 남는 문제를 줄였습니다.
-
-
-## v7 변경
-- AI 블록다이어그램 상단 블록을 내려 제목/라벨 겹침을 줄였습니다.
-- 메모리 가격 차트는 시작값=100 지수가 아니라 달러 가격축으로 표시합니다.
-- 다나와 대표가는 1달러=1400원 고정값으로 환산한 USD 기준입니다.
